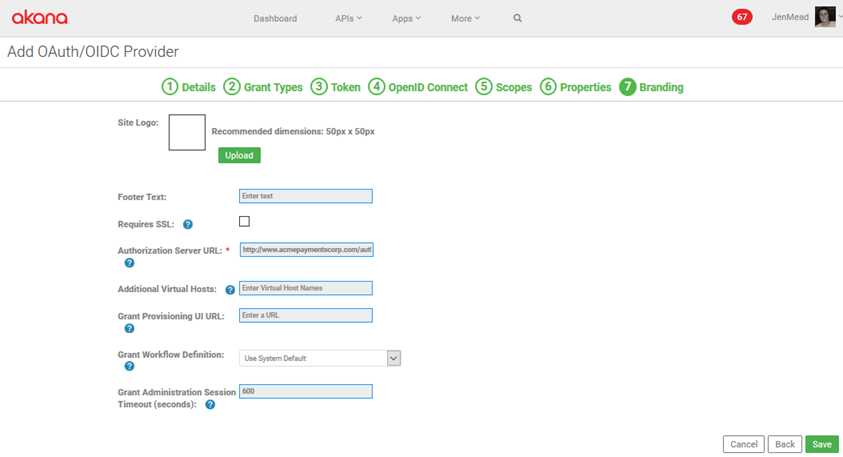
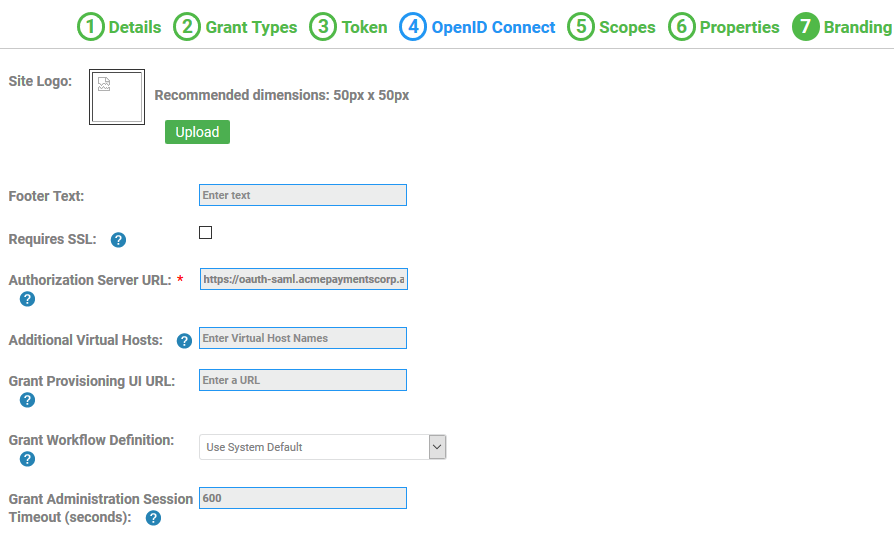
ATMO-32785 updates re SAML setup

diff --git a/cm/saml/03_saml_setup.htm b/cm/saml/03_saml_setup.htm
@@ -55,13 +55,13 @@ nav-title: Setting up SAML
 	<li>In Community Manager, complete the setup by following the applicable procedure, depending on how you will be using the SAML domain:
     <ul>
     	<li>As a login domain: see <a href="#proc_03_06">To enable a SAML login domain in Community Manager</a>.</li>
-    	<li>As an OAuth provider domain: see <a href="#proc_03_07">To configure a SAML OAuth Provider domain in Community Manager</a>.</li>
+    	<li>As an OAuth provider domain: see <a href="#proc_03_07">To configure an OAuth provider domain using a SAML SSO domain as OAuth Resource Owner Authentication Domain in Community Manager</a>.</li>
       </ul>
   </li>
 	<li>In Community Manager, test to make sure your domain that uses the SAML Web Browser SSO feature works correctly:
     <ul>
     	<li>As a login domain: see <a href="#proc_03_07_01">Testing the SAML domain as a Login Domain</a>.</li>
-    	<li>As an OAuth provider domain: see <a href="#proc_03_07_02">Testing the SAML domain as an OAuth Provider Domain</a>.</li>
+    	<li>As an OAuth provider domain: see <a href="#proc_03_07_02">Testing the SAML domain as the Resource Owner Authentication domain for an OAuth Provider Domain</a>.</li>
       </ul>
   </li>
 </ol>
@@ -232,7 +232,7 @@ nav-title: Setting up SAML
 <p>This section includes procedures in Community Manager to complete the setup. It includes:</p>
 <ul>
 	<li>Enabling the Login Domain: see <a href="#proc_03_06">To enable a SAML login domain in Community Manager</a>.</li>
-	<li>Setting up the OAuth Provider Domain: see <a href="#proc_03_07">To configure a SAML OAuth Provider domain in Community Manager</a>.</li>
+	<li>Configuring an OAuth Provider domain to use the SAML SSO domain as the OAuth Resource Owner Authentication domain: see <a href="#proc_03_07">To configure an OAuth provider domain using a SAML SSO domain as OAuth Resource Owner Authentication Domain in Community Manager</a>.</li>
 </ul>
 
 <h4 id="proc_03_06">To enable a SAML login domain in Community Manager</h4>
@@ -242,27 +242,30 @@ nav-title: Setting up SAML
 	<li>Find the domain on the list, and click <strong>Enable</strong>.</li>
   </ol>
 
-<h4 id="proc_03_07">To use a SAML SSO domain for OAuth Resource Owner Authentication Domain in Community Manager</h4>
+<h4 id="proc_03_07">To configure an OAuth provider domain using a SAML SSO domain as OAuth Resource Owner Authentication Domain in Community Manager</h4>
+<p>Note: For instructions and additional information about this domain, see <a href="../learnmore/bus_admin_domains.htm#domain_oauth_provider_configure">How do I set up and configure an Akana OAuth/OIDC Provider domain?</a> (developer portal help).</p>
 <ol>
-	<li>In Community Manager, log in as the Site Admin.</li>
+	<li>In the developer portal, log in as the Site Admin.</li>
 	<li>Go to <!-- #BeginLibraryItem "/Library/hdr_more_admin.lbi" -->&nbsp;<strong>More</strong> &gt; <strong>Admin</strong> &gt;&nbsp;<!-- #EndLibraryItem --><strong>Domains</strong>.</li>
 	<li>Click <strong>Add Domain</strong> and choose <strong>Akana OAuth/OIDC Provi</strong><strong>der</strong>. The wizard opens.</li>
-	<li>Tab 1, <strong>Details</strong>: Provide name and optional description, and click <strong>Next</strong>. In this example:
-		<p><img src="images/08_cm_oauth_domain_tab01_details.png" alt="Developer Portal, setting up the domain: Tab 1, Details" /></p>
-	</li>
-	<li>Tab 2, <strong>Grant Types</strong>: Select grant types. In the <strong>Resource Owner Authentication Domain</strong> field, choose the SAML domain, as shown below, and then click <strong>Next</strong>.
-  	<p><img src="images/08_cm_oauth_domain_tab02_granttypes.png" alt="Developer Portal, setting up the domain: Tab 2, Grant Types" /></p></li>
-	<li>Tab 3, <strong>Token</strong>: Choose the token type: <strong>Referenced Bearer</strong>, <strong>JWT Bearer Access Token</strong>, or both. For <strong>JWT Bearer Access Token</strong>, you must specify the platform identity name, in the <strong>Reference Signing Key from Platform Identity</strong> field. Click <strong>Next</strong>. {<span class="apidoc_red">DK_01: "Reference signing key from platform identity" is also required. Not sure what to include in the instructions here?</span>}</li>
-	<li>Tab 4, <strong>OpenID Connect</strong>: Here, you'll set up the necessary values if you want your OAuth Provider domain to use an OpenID Connect Identity Provider for authentication. Specify values as needed, and then click <strong>Next</strong>. If your SAML implementation doesn't use OpenID Connect (for example, if it uses PingFederate), skip this page.
-		<!--{ATMO-14598}-->
-	</li>
-	<li>Tab 5, <strong>Scopes</strong>: {<span class="apidoc_red">DK_02: do they need to create scopes? I believe at least one is required.</span>}</li>
-	<li>Tab 6, <strong>Properties</strong>: No configuration is needed on this tab.</li>
-	<li>Tab 7, <strong>Branding</strong>: Provide the Authorization Server URL, as shown in the example below, and click <strong>Save</strong>. The domain is created.
-		<p><img src="images/08_cm_oauth_domain_tab07_branding.png" alt="Developer Portal, setting up the domain: Tab 7, Branding" /></p>
-	</li>
+	<li>Tab 1, <strong>Details</strong>: Provide name and optional description, and click <strong>Next</strong>. In this example, <strong>SAML_SSO_OAuth_Domain</strong>:
+	<p><img src="images/08_cm_oauth_domain_tab01_details.png" alt="Developer Portal, setting up the domain: Tab 1, Details" /></p>
+		</li>
+	<li>Tab 2, <strong>Grant Types</strong>: Select one or more grant types. This example uses the Authorization Code grant type. In the <strong>Resource Owner Authentication Domain</strong> field, choose the SAML domain, as shown below, and then click <strong>Next</strong>.
+		<p><img src="images/08_cm_oauth_domain_tab02_granttypes.png" alt="Developer Portal, setting up the domain: Tab 2, Grant Types" /></p></li>
+	<li>The rest of the OAuth domain configuration is according to your preferences. The only setup step for SAML is to specify the <strong>Resource Owner Authentication Domain</strong> as above. This example uses the following values:
+		<ul>
+			<li>Tab 3, <strong>Token</strong>: Token type: <strong>Referenced Bearer</strong>.</li>
+			<li>Tab 4, <strong>OpenID Connect</strong>: Not applicable since we are using SAML Web SSO for authentication.</li>
+			<li>Tab 5, <strong>Scopes</strong>: Provide at least one scope. In this example: <strong>Email</strong>.</li>
+			<li>Tab 6, <strong>Properties</strong>: No configuration needed for this example.</li>
+			<li>Tab 7, <strong>Branding</strong>: Provide the Authorization Server URL for your OAuth Provider. In this example: <strong>https://oauth-saml.acmepaymentscorp.apiportal.akana.com</strong>, as shown below.
+<p><img src="images/08_cm_oauth_domain_tab07_branding.png" alt="Developer Portal, setting up the domain: Tab 7, Branding" /></p></li>
+		</ul>
+		</li>
+	<li>Click <strong>Save</strong>. The domain is created.</li>
 </ol>
-<p class="apidoc_note"><strong>Note</strong>: When you create a new OAuth Provider Domain, you must also add the authorization server URL to your account with your SAML Identity Provider if it isn't already there. See <a href="06_saml_updating.htm#s06_01">Adding a New OAuth Provider Domain: Manual IdP Configuration</a>.</p>
+<p class="apidoc_note"><strong>Note</strong>: When you create a new OAuth Provider Domain, you must also add the authorization server URL to your account with your SAML Identity Provider if it isn't already there. See <a href="06_saml_updating.htm#s06_01">Adding a New OAuth Provider Domain: Manual IdP Configuration</a>. {<span class="apidoc_red">HK/DK is this note needed?</span>}</p>
 <p><a href="#top">Back to top</a></p>
 
 
@@ -271,24 +274,24 @@ nav-title: Setting up SAML
 <p>Once you've completed the setup steps, it's important to test to make sure everything is working properly. Depending on how you're using the SAML Web Browser SSO functionality, complete either or both of the following:</p>
 <ul>
 	<li><a href="#proc_03_07_01">Testing the SAML domain as a Login Domain</a></li>
-	<li><a href="#proc_03_07_02">Testing the SAML domain as an OAuth Provider Domain</a></li>
+	<li><a href="#proc_03_07_02">Testing the SAML domain as the Resource Owner Authentication domain for an OAuth Provider Domain</a></li>
 </ul>
 
 <h3 id="proc_03_07_01">Testing the SAML domain as a Login Domain</h3>
 <p>To test the login domain, follow the steps below.</p>
 <h4>To test the SAML login domain</h4>
 <ol>
-	<li>Log out</li>
-	<li>Log in via your new login domain and verify that it works.</li>
+	<li>Log out.</li>
+	<li>Log in via the new SAML login domain and verify that it works.</li>
 </ol>
 <p>If you encounter any issues, check to make sure that the values in your IdP account and your SAML Web Browser SSO domain match.</p>
 <p>You can also refer to the Troubleshooting section: see <a href="07_saml_troubleshooting.htm">Troubleshooting</a>.</p>
 
-<h3 id="proc_03_07_02">Testing the SAML domain as an OAuth Provider Domain</h3>
+<h3 id="proc_03_07_02">Testing the SAML domain as the Resource Owner Authentication domain for an OAuth Provider Domain</h3>
 <p>This section provides the steps you'll need to complete in Community Manager, after setting up a SAML domain as the OAuth Provider domain, to verify that the domain is correctly set up as the OAuth Provider domain and is working. A high-level overview of the steps is given below. In some cases, a separate procedure is provided; in other cases it is not. If you need more information, refer to <a href="../learnmore/bus_admin_domains.htm" title="Domains help">the Community Manager online help for domains</a>.</p>
 <h4>To test the SAML OAuth Provider domain: high-level procedure</h4>
 <ol>
-	<li>Create an API that uses the SAML domain as the OAuth Provider. See: <a href="#proc_03_07_02_02">Create API and specify OAuth Details</a>.</li>
+	<li>Create an API that uses an OAuth Provider domain that has SAML as the Resource Owner Authentication Provider. See: <a href="#proc_03_07_02_02">Create API and specify OAuth Details</a>.</li>
 	<li>Create an app. See: <a href="#proc_03_07_03">Create App</a>.</li>
 	<li>Create a contract for the app with the API. See: <a href="#proc_03_07_04">Request App/API Contract</a> and <a href="#proc_03_07_05">Approve App/API Contract</a>.</li>
 	<li>Test the app in Test Client to verify that the SSO Login screen is presented and the token is passed. See: <a href="#proc_03_07_06">In Community Manager, Test in Test Client</a>.</li>
@@ -298,19 +301,20 @@ nav-title: Setting up SAML
 
 <h4 id="proc_03_07_02_02">Create API and specify OAuth Details</h4>
 <ol>
-	<li>In Community Manager, select <strong>Add a New API</strong>.</li>
-	<li>Create the API, making sure you attach the following policies:
+	<li>In Community Manager, go to <strong>APIs</strong> &gt; <strong>Add API</strong>.</li>
+	<li>Create the API, making sure you attach the following policies to the API implementation:
     <ul>
     	<li>OAuth Security Policy</li>
     	<li>Detailed Auditing policy</li>
-    </ul>
-  <p>For more information, refer to the Community Manager online help.</p></li>
-	<li>Save the API and then, at the API Details page, click <strong>OAuth Details</strong> to access the API OAuth wizard, as shown below.
-    <p><img src="images/10_cm_api_oauth_details.jpg" alt="Developer Portal: API OAuth Details page" /></p>
-  </li>
-	<li>Select the SAML domain as the OAuth provider, and click <strong>Next</strong>.</li>
-	<li>In the <strong>Resource Mapping</strong> page, choose either <strong>API-Wide Mapping</strong> or <strong>Operation-Specific Mapping</strong>, specify scopes, and then click <strong>Save</strong>.
-    <p><img src="images/11_cm_api_oauth_resource_mapping.jpg" alt="Developer Portal: API OAuth Resource Mapping page" /></p>
+    	</ul>
+  	<p>For more information, refer to <a href="../learnmore/apiadmin_api_add.htm">Adding an API</a> (developer portal online help).</p>
+	</li>
+	<li>Save the API and then, at the API Details page, click <strong>OAuth Details</strong> to access the API OAuth wizard.</li>
+	<li><strong>Tab 1, Provider</strong>: Select the OAuth provider that you set up, that is using SAML for authentication, as shown below, and click <strong>Next</strong>.
+		<p><img src="images/10_cm_api_oauth_details_tab_1.png" alt="Developer Portal, API OAuth Details page: Tab 1, Provider" /></p>
+	</li>
+	<li><strong>Tab 2, Scope Mapping</strong>: choose either <strong>API-Wide Mapping</strong> or <strong>Operation-Specific Mapping</strong>, specify scopes, and then click <strong>Save</strong>.
+    <p><img src="images/10_cm_api_oauth_details_tab_2.png" alt="Developer Portal, API OAuth Details page: Tab 2, Scopes" /></p>
   </li>
 </ol>
 
@@ -351,7 +355,6 @@ nav-title: Setting up SAML
   </li>
 	<li>In Test Client, click <strong>Run it</strong>. The API request is authorized, and runs successfully, as shown in the example below.
     <p><img src="images/16_cm_tc_run_it.jpg" alt="Developer Portal, Test Client: Run It" /></p>
-
   </li>
 </ol>
 <p><a href="#top">Back to top</a></p>
